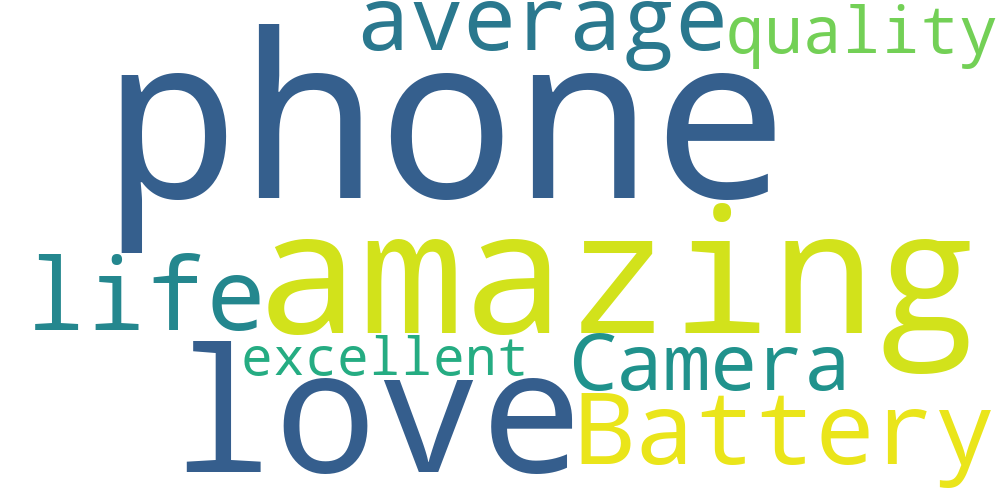
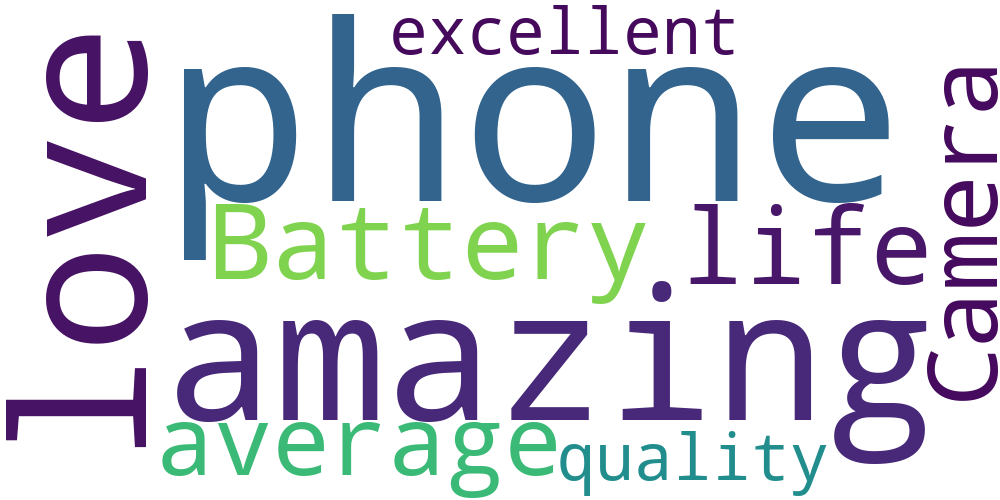
Add project screenshots and update README

diff --git a/README.md b/README.md
@@ -186,6 +186,17 @@ Contributions are welcome.
 
 ---
 
+## 📷 Screenshots
+Ai insight.png
+Chart(1).png
+Chart(2).png
+Dashboard.png
+History.png
+Home.png
+Recent review.png
+Upload.png
+Word cloud.png
+
 ## 👨💻 Author
 
 **Shivam Singh**